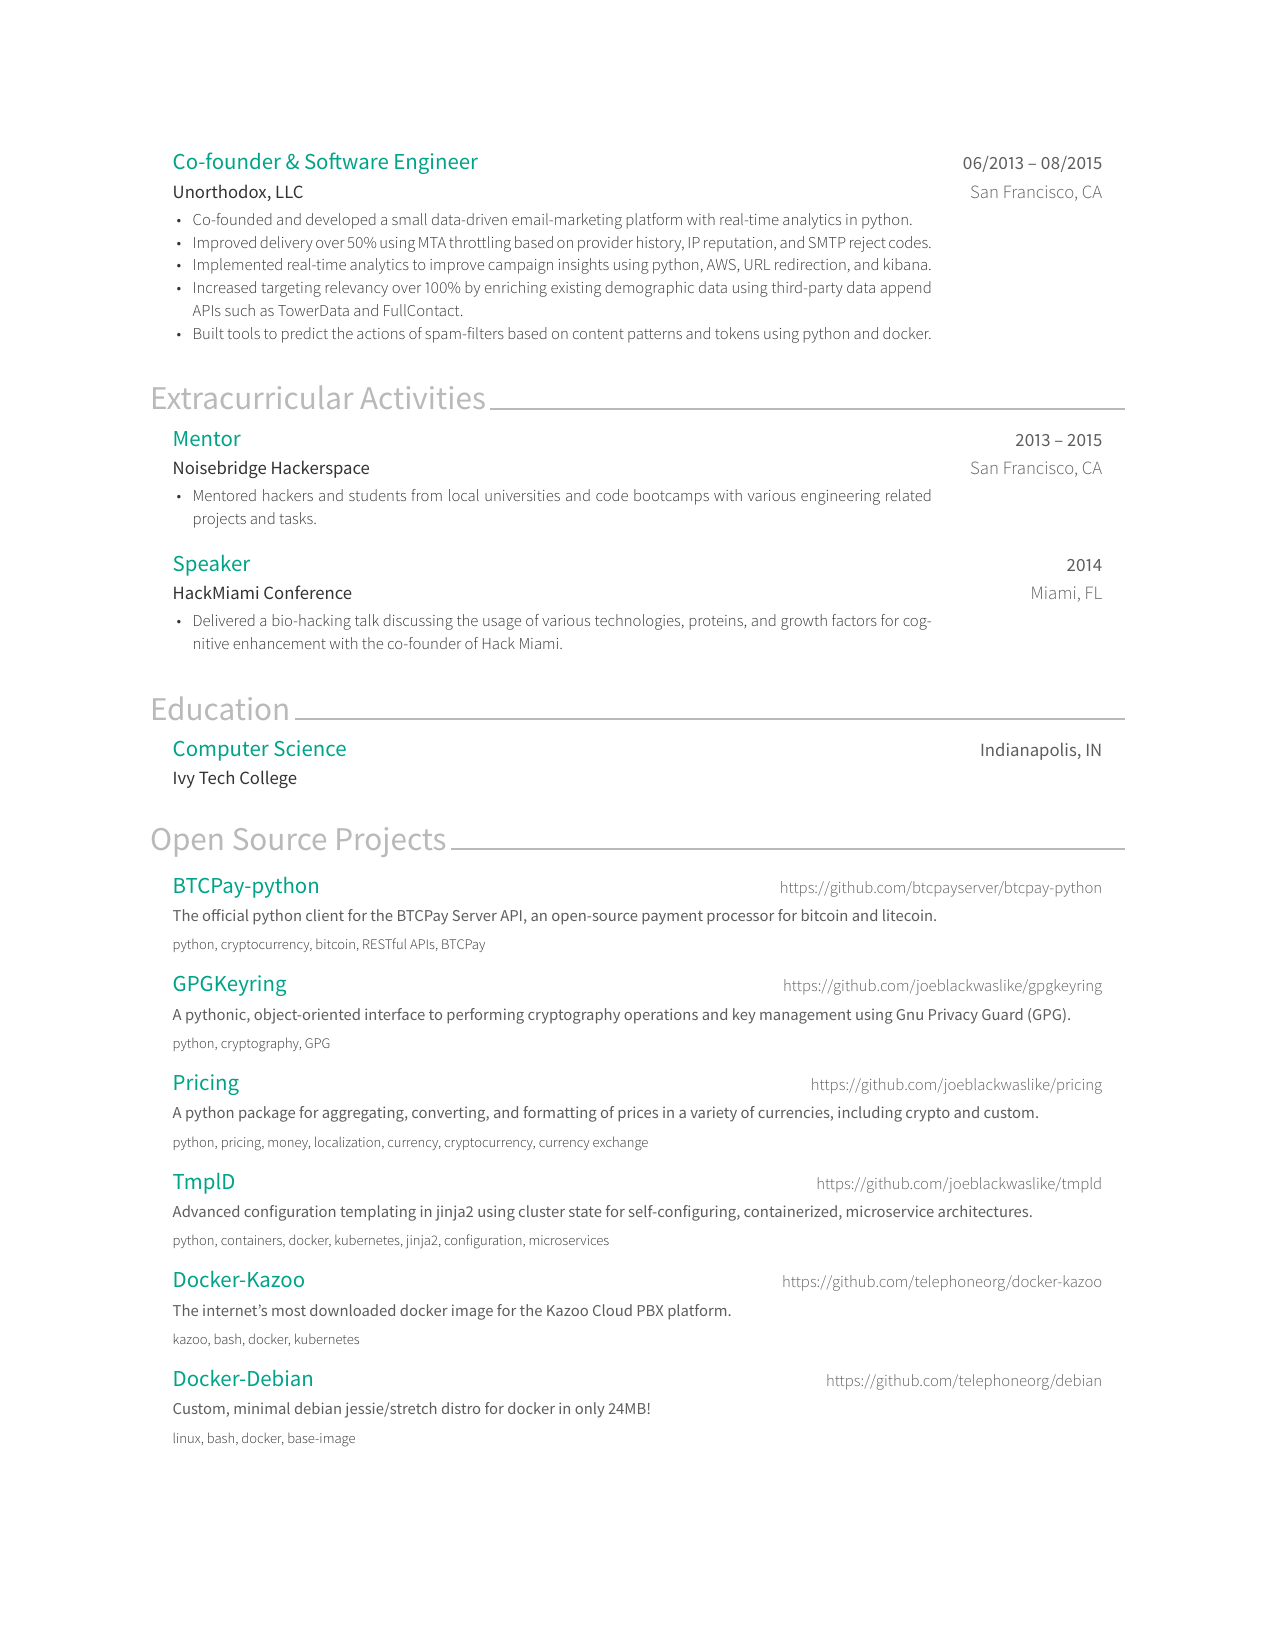
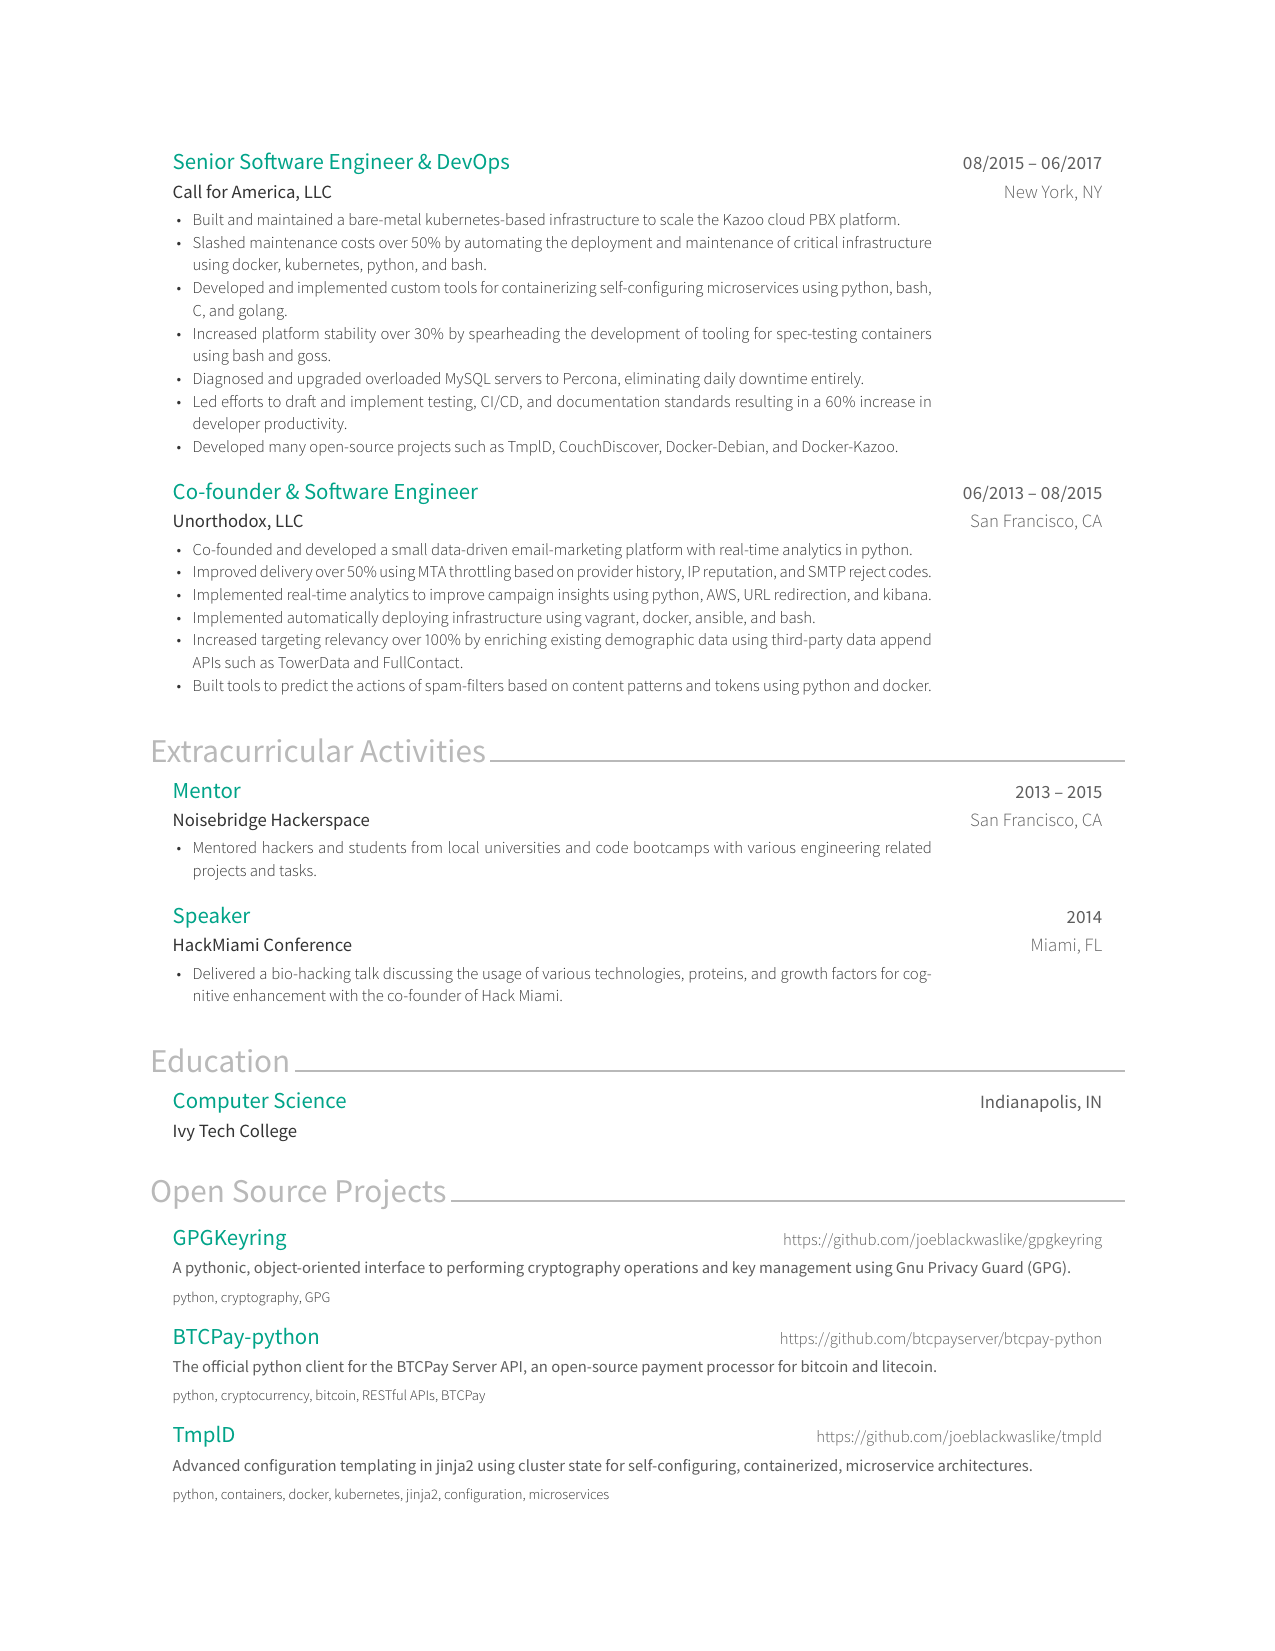
Add poetry, update readme with new data and previews, and pipeline tweaks

diff --git a/tasks.py b/tasks.py
@@ -1,10 +1,23 @@
+import os
+
 from invoke import task
-from builder import ResumeDocument
 
 
 @task
 def build_docker(ctx):
     ctx.run("docker build -t joeblackwaslike/texlive:2016 docker-texlive")
+
+
+@task
+def generate_thumbnails(ctx):
+    filedir = "export"
+    filename = "Joe_Black_resume_backend-software-engineer_python_v2.0.4.pdf"
+    ctx.run("pdftoppm -png {} preview".format(os.path.join(filedir, filename)))
+
+
+@task
+def build_package(ctx):
+    ctx.run("pip3 install -r requirements.txt")
 
 
 def _build_pdf(ctx):
@@ -28,7 +41,9 @@ def _preview(ctx, file_name):
 
 
 @task
-def render(ctx, data="blockchain", pty=True):
+def render(ctx, data="bse-python", pty=True):
+    from builder import ResumeDocument
+
     data_path = f"data/{data}.yaml"
 
     # Generate latex

diff --git a/README.md b/README.md
@@ -5,7 +5,6 @@ This project is a resume builder I developed for building a beautiful LaTeX typs
 
 ## Usage
 * Ensure you have docker installed and running.
-* Install pyinvoke: `pip3 install invoke`
 * Install builder requirements: `pip3 install builder/requirements.txt`
 * Ensure you have jsonresume conforming yaml data in `data/`, to use mine clone the repo with: `git clone --recursive`.
 * Build your pdf: `inv render --data={name-of-file}`.  *Do not include data/ path or .yaml suffix*
@@ -21,54 +20,64 @@ And just because I'm a total nerd, here is an example of the text extracted from
 
 ```
 Joe Black
-Experienced software engineer obsessed with blockchain
-New York, NY          (646) 924-7718           me@joeblack.nyc             https://joeblack.nyc           joeblack949      joeblackwaslike
+Experienced backend software engineer & python enthusiast
+New York, NY        (646) 924-7718           me@joeblack.nyc             https://joeblack.nyc          joeblack949        joeblackwaslike
 
 
 
 Summary
- Passionate engineer and linux expert with 7 years of experience seeking an engineering role where I can leaverage my expertise
- to help build the future of ethereum. I’m self-managed, determined, embody the principles of grit, and thrive in a fast-paced
- environment.
+ Passionate engineer and linux expert with 7 years of experience seeking a backend engineering role where my expertise in
+ python will help drive the success of a team and product that I genuinely believe in. I’m self-managed, determined, embody
+ the principles of grit, and thrive in a fast-paced environment.
 
 Awards
-  Winner               Stanford Datajam, a hackathon sponsored by the US Department of Education. (2014)                      Palo Alto, CA
+  Winner             Stanford Datajam, a hackathon sponsored by the US Department of Education. (2014)                       Palo Alto, CA
 
 Skills
-  Languages             Python 2, Python 3, Bash, Javascript, Solidity, Golang, Ruby/Rails, Flask, Pyramid
-  Technologies          Linux, Unix, Docker, Kubernetes, AWS, SQL, NoSQL, RESTful APIs, Cryptography, CI/CD, Git/Github, LATEX
-  Blockchain            Ethereum, Bitcoin, Decentralized Apps, Smart Contracts, P2P, Swarm, IPFS, ENS, Whisper, PSS, uPort, Truffle
+  Languages           Python 2, Python 3, Bash, Javascript, Solidity, Golang, Ruby/Rails, Django, Flask, Pyramid
+  Technologies        SQL, NoSQL, Redis, ElasticSearch, Microservices, RESTful APIs, Cryptography, CI/CD, Git/Github, LATEX
+  DevOps              Linux, Unix, Docker, Kubernetes, AWS, GCP, Ansible, Nginx
 
 
 Work Experience
-  Co-founder & Software Engineer                                                                                         06/2017 – 12/2018
-  Telephone                                                                                                                   New York, NY
-  • Co-founded a start-up to fund and develop a privacy-focused decentralized communications solution.
+  Senior Software Engineer                                                                                              04/2019 – Present
+  See-Thru Healthcare                                                                                                        New York, NY
+  • Currently leading the architecture and development efforts for a new group tele-therapy platform.
+  • Drive key architectural decisions regarding data modeling, and API design, technologies leveraged, and third-
+    party integrations focused on maximizing the impact of a small development team.
+  • Architected and implemented a unified identity provider using AWS Cognito, enabling a seamless user registra-
+    tion and login experience across products while directing growth to the core product.
+  • Designed and implemented a GraphQL & Relay API using python and graphene that drove the development of
+    more modular, declarative, and reusable componentry in the front-end react application.
+
+  Co-founder & Senior Software Engineer                                                                                 06/2017 – 12/2018
+  Telephone                                                                                                                  New York, NY
+  • Co-founded a start-up to fund and develop a privacy-focused decentralized communications app.
   • Collaboratively architected a decentralized protocol and app using ethereum, solidity, python, and javascript.
   • Educated and advised co-founders on the constraints posed by decentralized architecture and the ICO funding
     process to better align the vision of the company and viability of the product.
   • Designed a decentralized services marketplace to incentivize the development of new features, build community,
     and support the underlying token economy.
-  • Implemented daily automated email check-ins, leading to a 50% increase in team communication and morale.
 
-  Software Engineer                                                                                                      04/2014 – Present
-  Black Limited                                                                                                               New York, NY
-  •   Founded a development and consulting company which I use for short-term contract work referred to me.
-  •   Developed and deployed a privacy-focused crypto-commerce platform using python, flask, and bitcoin.
-  •   Developed tools in python used by the Security Scorecard platform for IP attribution of vendors.
-  •   Leveraged ML/NLP to identify inconsistencies across legal contracts for a law firm specializing in foreclosures.
-  •   Developed open-source python projects such as the official BTCPay client, GPGKeyring, and Pricing.
+  Contract Software Engineer                                                                                            04/2014 – 04/2019
+  Black Limited                                                                                                              New York, NY
+  • Founded a development and consulting company which I use for short-term contract work referred to me.
+  • Developed and deployed a privacy-focused crypto-commerce platform using python, flask, and bitcoin.
+  • Developed tools in python used by the Security Scorecard platform for IP attribution of vendors.
+  • Leveraged machine-learning and NLP to identify inconsistencies across legal contracts for a law firm specializing
+    in foreclosures.
+  • Developed open-source python projects such as the official BTCPay python client, GPGKeyring, and Pricing.
 
-  Software Engineer & DevOps                                                                                             08/2015 – 06/2017
-  Call for America, LLC                                                                                                       New York, NY
+ Senior Software Engineer & DevOps                                                                                     08/2015 – 06/2017
+ Call for America, LLC                                                                                                      New York, NY
   • Built and maintained a bare-metal kubernetes-based infrastructure to scale the Kazoo cloud PBX platform.
   • Slashed maintenance costs over 50% by automating the deployment and maintenance of critical infrastructure
     using docker, kubernetes, python, and bash.
   • Developed and implemented custom tools for containerizing self-configuring microservices using python, bash,
     C, and golang.
-  • Diagnosed and upgraded overloaded MySQL servers to Percona, eliminating daily downtime entirely.
   • Increased platform stability over 30% by spearheading the development of tooling for spec-testing containers
     using bash and goss.
+  • Diagnosed and upgraded overloaded MySQL servers to Percona, eliminating daily downtime entirely.
   • Led efforts to draft and implement testing, CI/CD, and documentation standards resulting in a 60% increase in
     developer productivity.
   • Developed many open-source projects such as TmplD, CouchDiscover, Docker-Debian, and Docker-Kazoo.
@@ -78,6 +87,7 @@ Work Experience
   • Co-founded and developed a small data-driven email-marketing platform with real-time analytics in python.
   • Improved delivery over 50% using MTA throttling based on provider history, IP reputation, and SMTP reject codes.
   • Implemented real-time analytics to improve campaign insights using python, AWS, URL redirection, and kibana.
+  • Implemented automatically deploying infrastructure using vagrant, docker, ansible, and bash.
   • Increased targeting relevancy over 100% by enriching existing demographic data using third-party data append
     APIs such as TowerData and FullContact.
   • Built tools to predict the actions of spam-filters based on content patterns and tokens using python and docker.
@@ -103,30 +113,17 @@ Education
 
 
 Open Source Projects
- BTCPay-python                                                                               https://github.com/btcpayserver/btcpay-python
- The official python client for the BTCPay Server API, an open-source payment processor for bitcoin and litecoin.
- python, cryptocurrency, bitcoin, RESTful APIs, BTCPay
-
  GPGKeyring                                                                                  https://github.com/joeblackwaslike/gpgkeyring
  A pythonic, object-oriented interface to performing cryptography operations and key management using Gnu Privacy Guard (GPG).
  python, cryptography, GPG
 
- Pricing                                                                                         https://github.com/joeblackwaslike/pricing
- A python package for aggregating, converting, and formatting of prices in a variety of currencies, including crypto and custom.
- python, pricing, money, localization, currency, cryptocurrency, currency exchange
+ BTCPay-python                                                                               https://github.com/btcpayserver/btcpay-python
+ The official python client for the BTCPay Server API, an open-source payment processor for bitcoin and litecoin.
+ python, cryptocurrency, bitcoin, RESTful APIs, BTCPay
 
  TmplD                                                                                            https://github.com/joeblackwaslike/tmpld
  Advanced configuration templating in jinja2 using cluster state for self-configuring, containerized, microservice architectures.
  python, containers, docker, kubernetes, jinja2, configuration, microservices
-
- Docker-Kazoo                                                                                https://github.com/telephoneorg/docker-kazoo
- The internet’s most downloaded docker image for the Kazoo Cloud PBX platform.
- kazoo, bash, docker, kubernetes
-
- Docker-Debian                                                                                      https://github.com/telephoneorg/debian
- Custom, minimal debian jessie/stretch distro for docker in only 24MB!
- linux, bash, docker, base-image
-
 ```
 
 
